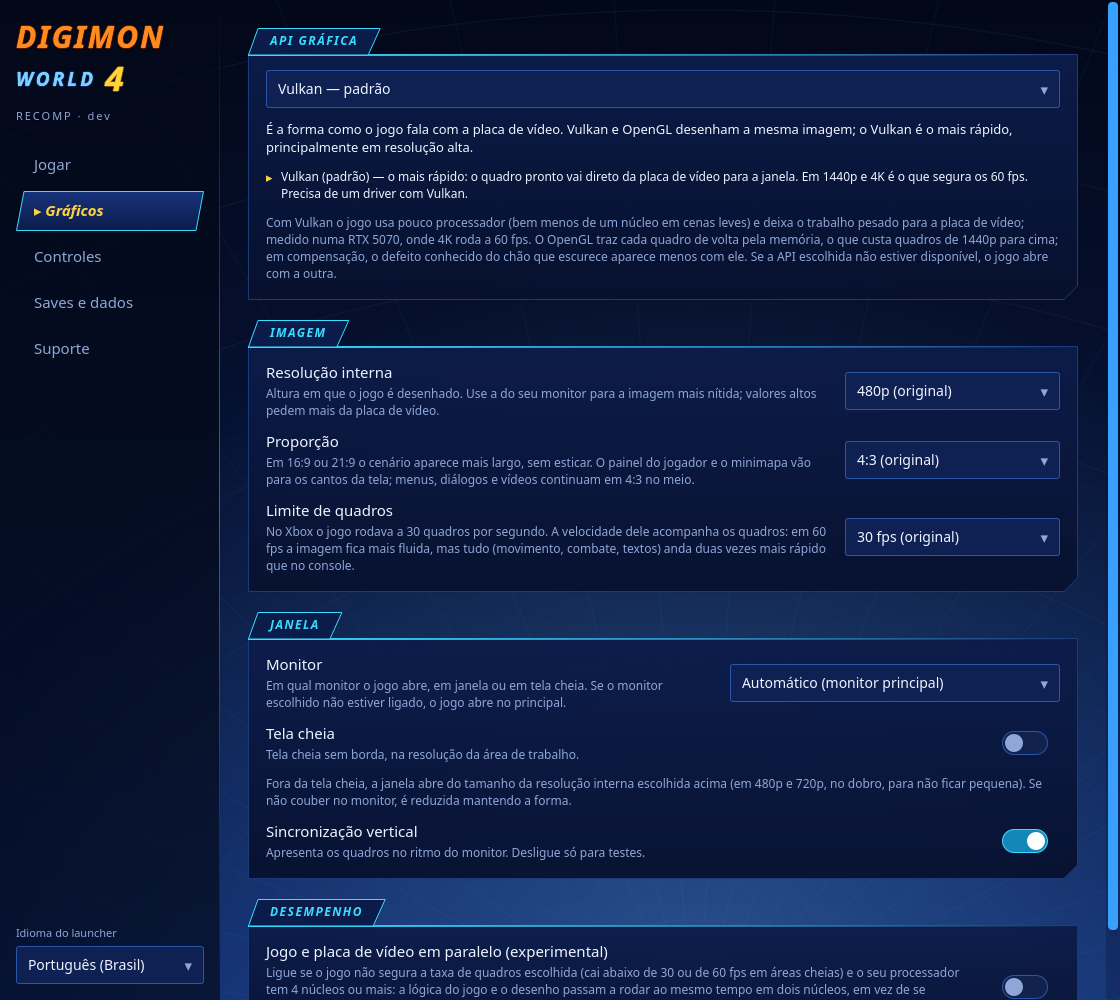
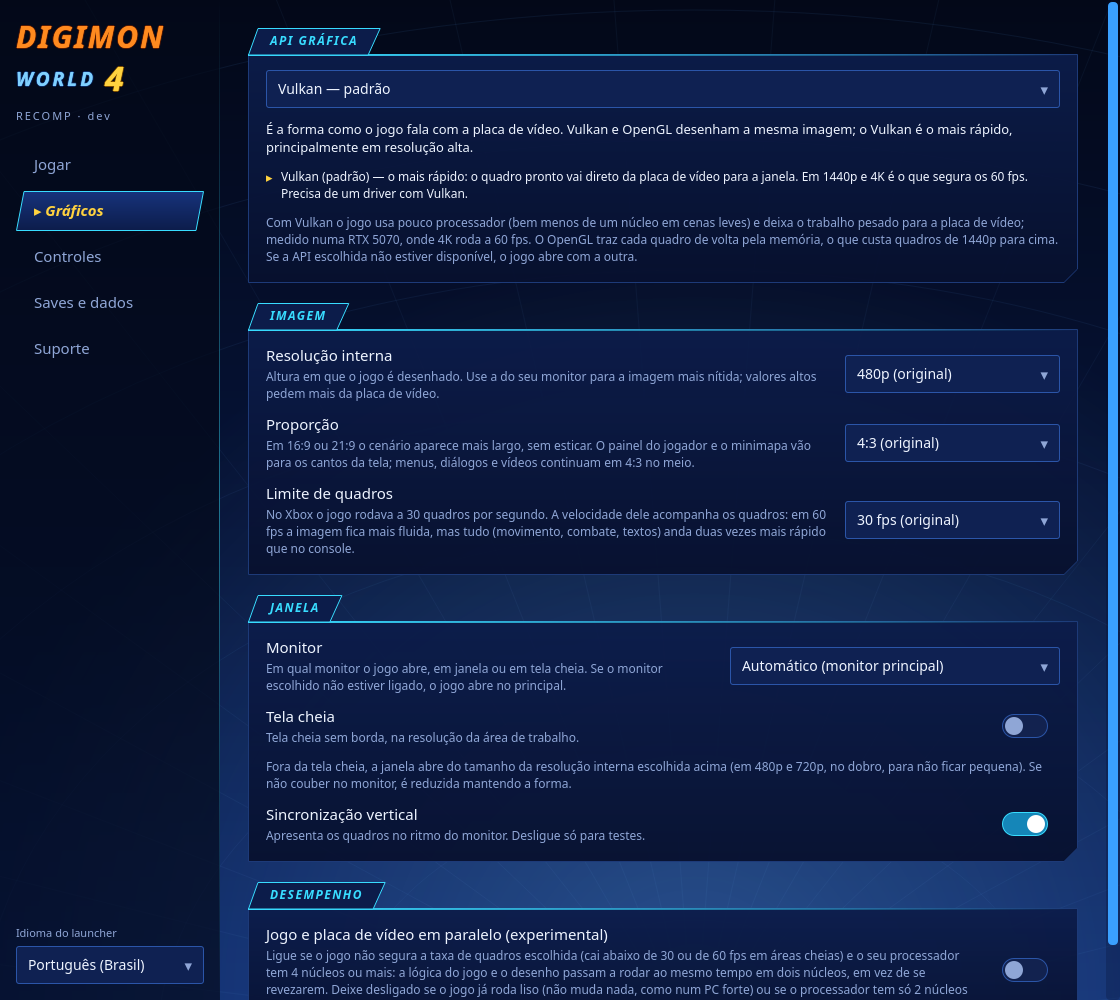
Sombras projetadas (texgen) e crash ao pular o video de abertura
- Chao que escurecia: o passe de sombra projetada usa texgen EYE_LINEAR, que o
  executor ignorava; o piso inteiro amostrava um ponto so do alvo de sombra.
  ffp_vertex() aplica texgen (olho e objeto) antes da matriz de textura; os
  Digimon voltam a ter sombra. RECOMP_NO_TEXGEN=1 desliga.
- Pular a abertura com START fechava o jogo em ~5% das execucoes sem janela:
  corrida entre a thread principal e a mwidle do CRI, que no console nao roda
  enquanto a principal trabalha. A passada da mwidle (sub_00257FB0) passa a
  respeitar a secao critica do CRI e cede a vez. DW4_CRI_IDLE_GATE=0 desliga.
- Diagnostico: tg= nos lotes da caixa-preta; cadeia de chamadas do guest na
  primeira chamada por ponteiro nulo.
- Launcher e READMEs: saem os tres defeitos conhecidos (chao, reflexos, crash
  da abertura); imagens da aba Graficos refeitas.

diff --git a/launcher/qml/Main.qml b/launcher/qml/Main.qml
@@ -689,7 +689,7 @@ ApplicationWindow {
                 Card {
                     heading: t.known
                     Repeater {
-                        model: [t.known_1, t.known_2, t.known_3, t.known_4]
+                        model: [t.known_1]
                         Label { required property string modelData
                                 text: "•  " + modelData; color: win.ink; font.pixelSize: 14; wrapMode: Text.WordWrap; Layout.fillWidth: true }
                     }

diff --git a/launcher/dw4_launcher.py b/launcher/dw4_launcher.py
@@ -201,12 +201,10 @@ STR = {
         "api_vk": "Vulkan (padrão) — o mais rápido: o quadro pronto vai direto da placa de vídeo para a janela. "
                   "Em 1440p e 4K é o que segura os 60 fps. Precisa de um driver com Vulkan.",
         "api_gl": "OpenGL 3.3 — a mais antiga e compatível; funciona em praticamente qualquer placa e driver. "
-                  "Mais lenta em resolução alta. Jogando, o defeito conhecido do chão que escurece apareceu menos com ela, "
-                  "e a imagem ficou mais estável: vale trocar se isso incomodar ou se o Vulkan der problema.",
+                  "Mais lenta em resolução alta. Vale trocar se o Vulkan der problema.",
         "api_note": "Com Vulkan o jogo usa pouco processador (bem menos de um núcleo em cenas leves) e deixa o "
                     "trabalho pesado para a placa de vídeo; medido numa RTX 5070, onde 4K roda a 60 fps. "
-                    "O OpenGL traz cada quadro de volta pela memória, o que custa quadros de 1440p para cima; "
-                    "em compensação, o defeito conhecido do chão que escurece aparece menos com ele. "
+                    "O OpenGL traz cada quadro de volta pela memória, o que custa quadros de 1440p para cima. "
                     "Se a API escolhida não estiver disponível, o jogo abre com a outra.",
         "vk_missing": "Vulkan não foi encontrado neste sistema: o jogo vai abrir com OpenGL.",
         "keyboard": "Teclado como controle 1", "keyboard_d": "Um controle conectado continua funcionando junto.",
@@ -262,11 +260,7 @@ STR = {
         "import_bad": "Este .zip não parece um backup de saves deste launcher.",
         "not_while_running": "Feche o jogo antes de mexer nos saves.",
         "known": "Problemas conhecidos",
-        "known_1": "Pular o vídeo de abertura com START pode, raramente, fechar o jogo. Se acontecer, abra de novo.",
-        "known_2": "Reflexos e brilhos gerados automaticamente não estão implementados; alguns objetos podem parecer chapados.",
-        "known_3": "Em algumas áreas o chão escurece por alguns quadros e volta. É só visual; a causa ainda não foi achada. "
-                   "Acontece menos com a API gráfica OpenGL (Gráficos).",
-        "known_4": "Testado em uma única máquina (CachyOS, NVIDIA RTX 5070), onde roda a 60 fps em 4K. Outras placas "
+        "known_1": "Testado em uma única máquina (CachyOS, NVIDIA RTX 5070), onde roda a 60 fps em 4K. Outras placas "
                    "(AMD, Intel), processadores mais fracos e outros sistemas ainda não foram testados.",
         "slow": "Se o jogo estiver lento",
         "slow_1": "Use a API gráfica Vulkan (Gráficos). Com OpenGL cada quadro passa pela memória, o que pesa de 1440p para cima.",
@@ -335,12 +329,10 @@ STR = {
         "api_vk": "Vulkan (default) — the faster one: the finished frame goes straight from the graphics card to "
                   "the window. At 1440p and 4K this is what holds 60 fps. Needs a driver with Vulkan.",
         "api_gl": "OpenGL 3.3 — the older, most compatible one; works on practically any card and driver. "
-                  "Slower at high resolutions. In play, the known floor-darkening glitch showed up less with it and the "
-                  "picture was steadier: worth switching if that bothers you or if Vulkan gives you trouble.",
+                  "Slower at high resolutions. Worth switching if Vulkan gives you trouble.",
         "api_note": "With Vulkan the game uses little processor (well under one core in light scenes) and leaves "
                     "the heavy work to the graphics card; measured on an RTX 5070, where 4K runs at 60 fps. "
-                    "OpenGL copies every frame back through memory, which costs frames at 1440p and above; "
-                    "on the other hand, the known floor-darkening glitch shows up less with it. "
+                    "OpenGL copies every frame back through memory, which costs frames at 1440p and above. "
                     "If the chosen API is unavailable, the game starts with the other.",
         "vk_missing": "Vulkan was not found on this system: the game will start with OpenGL.",
         "keyboard": "Keyboard as controller 1", "keyboard_d": "A connected controller keeps working alongside it.",
@@ -397,11 +389,7 @@ STR = {
         "import_bad": "This .zip does not look like a save backup from this launcher.",
         "not_while_running": "Close the game before touching the saves.",
         "known": "Known issues",
-        "known_1": "Skipping the intro movie with START can, rarely, make the game quit. If it happens, start it again.",
-        "known_2": "Automatically generated reflections and shine are not implemented; some objects may look flat.",
-        "known_3": "In some areas the floor darkens for a few frames and comes back. It is only visual; the cause has not been found yet. "
-                   "It happens less with the OpenGL graphics API (Graphics).",
-        "known_4": "Tested on one machine (CachyOS, NVIDIA RTX 5070), where it runs at 60 fps in 4K. Other cards "
+        "known_1": "Tested on one machine (CachyOS, NVIDIA RTX 5070), where it runs at 60 fps in 4K. Other cards "
                    "(AMD, Intel), slower processors and other systems are untested.",
         "slow": "If the game is slow",
         "slow_1": "Use the Vulkan graphics API (Graphics). With OpenGL every frame goes through memory, which is heavy from 1440p up.",

diff --git a/src/hooks/recomp_manual.c b/src/hooks/recomp_manual.c
@@ -183,6 +183,17 @@ void recomp_icall_not_code_log(uint32_t va)
                     "(ponteiro nulo/selvagem, chamada #%llu, ret guest 0x%08X)\n",
             va, (unsigned long long)hits[i],
             (unsigned long long)g_icall_count, MEM32(g_esp));
+    if (hits[i] == 1)
+        fprintf(stderr, "  [CRI] trava do CRI (0x3BDD34) = %u no momento\n", MEM32(0x3BDD34));
+    /* Na primeira vez de cada alvo, a cadeia de chamadas do guest desta
+     * thread: diz qual thread (principal, vsync do CRI, mwidle) tropeçou. */
+    if (hits[i] == 1) {
+        static int budget = 6;
+        if (budget > 0) {
+            budget--;
+            dw4_crash_report_guest_stack();
+        }
+    }
 }
 
 /* ── Instrucoes nao traduzidas ─────────────────────────────────────────────── */
@@ -277,4 +288,52 @@ void sub_002B1320(void)
     xbox_Nv2aKickGate();
     sub_002B1320_gen();
     xbox_Nv2aKickDone();
+}
+
+/* 0x00257FB0: a passada dos servidores "idle" do CRI (SVM tipo 6), chamada so
+ * pela thread mwidle (0x0024D590), que le os AFS e alimenta os fluxos de
+ * video e som.
+ *
+ * No console a mwidle tem a prioridade mais baixa do jogo e ha uma CPU so:
+ * ela so roda quando a thread principal esta bloqueada, entao tudo o que a
+ * principal faz na biblioteca (parar e destruir um filme, por exemplo) e
+ * atomico em relacao a ela. Aqui as duas rodam ao mesmo tempo. Ao pular o
+ * video de abertura com START, a principal destruia os objetos de fluxo (SJ)
+ * com a mwidle no meio de uma passada, ou o contrario: chamada virtual por
+ * uma vtable ja zerada (`[ICALL] alvo 0x00000000`, ret guest 0x0026A1BE /
+ * 0x0026A1E0 / 0x0026A8B0 / 0x00277028..0x002773A6) e o jogo desistia
+ * (HalReturnToFirmware). 11 em 231 execucoes sem janela antes; PORT_NOTES §3.
+ *
+ * A passada passa a rodar dentro da secao critica do proprio CRI
+ * (0x003FEA60, a de 0x0024D4C0/0x0024D4E0), que a principal segura nas
+ * chamadas da biblioteca. Se ela esta ocupada, a passada e pulada (eax = 0,
+ * "nada a fazer"): a mwidle se suspende e volta no vblank seguinte, que e o
+ * que a prioridade fazia. Nunca espera pela trava: a principal, de dentro
+ * dela, gira esperando a mwidle terminar (0x0024D520).
+ * DW4_CRI_IDLE_GATE=0 volta ao comportamento antigo. */
+#define CRI_LOCK_VA 0x003FEA60u
+extern void sub_00257FB0_gen(void);
+extern int  xbox_RtlTryEnterCriticalSectionHost(void *cs);
+extern void xbox_RtlLeaveCriticalSection(void *cs);
+
+void sub_00257FB0(void)
+{
+    static int on = -1;
+    void *cs = (void *)((uintptr_t)g_xbox_mem_offset + CRI_LOCK_VA);
+
+    if (on < 0) {
+        const char *e = getenv("DW4_CRI_IDLE_GATE");
+        on = !(e && e[0] == '0');
+    }
+    if (!on) {
+        sub_00257FB0_gen();
+        return;
+    }
+    if (!xbox_RtlTryEnterCriticalSectionHost(cs)) {
+        g_eax = 0;
+        g_esp += 4;                         /* o `ret` da funcao */
+        return;
+    }
+    sub_00257FB0_gen();
+    xbox_RtlLeaveCriticalSection(cs);
 }

diff --git a/src/hooks/nv2a_vk_backend.c b/src/hooks/nv2a_vk_backend.c
@@ -1337,6 +1337,10 @@ static uint32_t s_pcount, s_pcap;
 extern const uint32_t *nv2a_pb_exec_reg_mirror(void);
 static uint32_t s_tm_hash, s_tm_n;
 static float s_tm_min[2], s_tm_max[2];
+/* Texgen do estagio 0 (SET_TEXGEN_S/T/R/Q, 0x03C0..0x03CC): quantos draws do
+ * lote vieram com algum canal ligado e os modos do ultimo deles. O executor
+ * ainda nao aplica texgen (PORT_NOTES 7.8); isto so mostra se o jogo pede. */
+static uint32_t s_tg_n, s_tg_mode[4];
 
 static void tm_note(void)
 {
@@ -1344,6 +1348,11 @@ static void tm_note(void)
     float m[16];
     uint32_t h = 0;
 
+    if (reg[0x03C0 / 4] | reg[0x03C4 / 4] | reg[0x03C8 / 4] | reg[0x03CC / 4]) {
+        for (int i = 0; i < 4; i++)
+            s_tg_mode[i] = reg[0x03C0 / 4 + i];
+        s_tg_n++;
+    }
     if (!reg[0x0420 / 4])
         return;
     memcpy(m, &reg[0x06C0 / 4], sizeof m);
@@ -1632,7 +1641,7 @@ static void flush_pending(void)
     }
     if (dw4_frame_ring_on()) {
         /* Caixa-preta: o que este lote e, para comparar quadro a quadro. */
-        char line[480];
+        char line[560];
         uint32_t rch = 0;
 
         for (size_t i = 0; i < sizeof k->rc / 4; i++)
@@ -1668,7 +1677,8 @@ static void flush_pending(void)
         snprintf(line, sizeof line, "s%d v=%u ext=%d bl=%u(%X,%X) at=%u(%X,%u) z=%u/%u cm=%08X "
                  "t=%08X,%08X f%02X pal=%08X:%08X ts=%d rc=%05X f0=%08X fin=%X,%X fogc=%.2f,%.2f,%.2f "
                  "fog=%.3f[%.2f..%.2f] spec=%08X uv=%08X col=%08X bb=%.0f,%.0f-%.0f,%.0f "
-                 "rch=%08X f1=%08X fc=%08X,%08X bc=%08X tm=%u:%08X[%.3f..%.3f,%.3f..%.3f]",
+                 "rch=%08X f1=%08X fc=%08X,%08X bc=%08X tm=%u:%08X[%.3f..%.3f,%.3f..%.3f] "
+                 "tg=%u:%X,%X,%X,%X",
                  (int)(k->surf - s_surf), s_pcount, k->has_ext, rs->blend_enable, rs->blend_src,
                  rs->blend_dst, rs->alpha_test_enable, rs->alpha_func, rs->alpha_ref,
                  rs->depth_test_enable, rs->depth_write, rs->color_mask, k->tva[0], k->tva[1],
@@ -1680,8 +1690,10 @@ static void flush_pending(void)
                  (double)x0, (double)y0, (double)x1, (double)y1,
                  rch, k->rc.factor1[0], k->rc.final_c0, k->rc.final_c1, rs->blend_color,
                  s_tm_n, s_tm_hash, (double)s_tm_min[0], (double)s_tm_max[0],
-                 (double)s_tm_min[1], (double)s_tm_max[1]);
+                 (double)s_tm_min[1], (double)s_tm_max[1],
+                 s_tg_n, s_tg_mode[0], s_tg_mode[1], s_tg_mode[2], s_tg_mode[3]);
         s_tm_hash = 0; s_tm_n = 0;
+        s_tg_n = 0; memset(s_tg_mode, 0, sizeof s_tg_mode);
         dw4_frame_detail(line);
     }
     vkCmdDraw(s_cmd, s_pcount, 1, s_vtx_used, 0);

diff --git a/PORT_NOTES.md b/PORT_NOTES.md
@@ -117,7 +117,14 @@ EFLAGS** no `ucontext` (a instrução seguinte é o `jcc`).
 `ffp_vertex()` aplica `SET_TEXTURE_MATRIX` (`0x06C0 + 0x40·estágio`) quando
 `SET_TEXTURE_MATRIX_ENABLE` (`0x0420 + 4·estágio`) está ligado, na convenção da matriz composta
 (`out[i] = Σ M[4i+j]·in[j]`, q = 1 por omissão). `RECOMP_NO_TEXMATRIX=1` desliga para comparar.
-Texgen (`0x03C0…`) continua não implementado.
+**Texgen (2026-11-26):** `ffp_vertex()` aplica `SET_TEXGEN_S/T/R/Q` (`0x03C0 + 0x10·estágio +
+4·canal`) antes da matriz de textura: EYE_LINEAR (`0x2400`) = plano · posição no espaço do olho
+(modelview em `0x0480`), OBJECT_LINEAR (`0x2401`) = plano · posição do objeto; planos em
+`0x0840 + 0x40·estágio + 0x10·canal` (se nunca foram programados, os de identidade). Sphere,
+reflection e normal map continuam sem implementação. `RECOMP_NO_TEXGEN=1` desliga para comparar.
+Motivo e evidência em §7.8. Confirmado pelo usuário jogando (2026-11-26, Linux, Vulkan, Central
+Area): sombras dos Digimon no chão e o piso não escurece mais. Sem janela: `soak.py --golden`, `--opengl --golden`
+e `--wine --golden` passam, sombra visível no lobby nos dois renderizadores; referências atualizadas.
 
 ### 4.7 `nv2a_backend.h` / `nv2a_pb_exec.c` — z-bias (polygon offset)
 `Nv2aRenderState` ganhou `poly_offset_enable/factor/bias`, lidos do espelho de registradores
@@ -412,6 +419,46 @@ controle de verdade fica "conectada, nada apertado". Com 4, o boot até o lobby 
 frames de referência. **Não testado com mais de um controle nem visto o que o jogo faz com as
 portas vazias.**
 
+### 4.21 `src/kernel/kernel_rtl.c` + `recomp_manual.c` — pular o vídeo de abertura fechava o jogo (2026-11-26, `DW4R-12`)
+
+**Sintoma:** em ~5% das execuções sem janela (11 de 231 no histórico; 3 de 64 no dia da
+correção), apertar START durante o vídeo de abertura dava `[ICALL] alvo 0x00000000` com
+`ret guest 0x0026A1BE` / `0x0026A1E0` / `0x0026A8B0` / `0x00277028`…`0x002773A6`, e em seguida o
+jogo saía sozinho (`HalReturnToFirmware routine=2`, com um laço de ponteiros-lixo em
+`ret guest 0x00257F47` e SIGSEGV na saída) ou ficava vivo com o laço girando. O usuário nunca viu
+jogando com janela.
+
+**Como foi achado:** `recomp_icall_not_code_log` passou a despejar a cadeia de chamadas do guest
+na primeira chamada nula. Em 2 de 3 falhas a thread era a **mwidle** do CRI (`0x0024D590` →
+`0x00257FB0` → `0x00257F10`, o laço de servidores do SVM: 6 pares {função, objeto} por tipo em
+`0x003BE930 + 48·tipo`, tipo 6 = "idle") dentro de um servidor do Sofdec (`0x002708xx` →
+`0x0026A8xx`) chamando um método de um objeto de fluxo (SJ) por uma vtable zerada; na outra era a
+thread principal, no caminho de parar/destruir o filme (`0x00096FE7` → `0x0026FC82` → …).
+
+**Causa:** os servidores do CRI não se excluem por trava e sim por **prioridade**. No console a
+mwidle é a thread de menor prioridade numa CPU só: só roda com a principal bloqueada, então tudo
+o que a principal faz na biblioteca é atômico em relação a ela (e `0x0024D520` sobe a prioridade
+da mwidle e gira até ela terminar a passada, quando quer esperá-la). Aqui as duas rodam ao mesmo
+tempo e a principal destruía os SJ com a mwidle no meio de uma passada. Descartado antes, medindo:
+a correção do vblank da §4.20 (1 falha em 32 com ela desligada, 2 em 32 com ela ligada).
+
+**Correção:** `sub_00257FB0` (a passada "idle", só a mwidle chama) virou função embrulhada em
+`recomp_manual.c`: roda dentro da seção crítica do próprio CRI (`0x003FEA60`, a de
+`0x0024D4C0`/`0x0024D4E0`, que a principal segura nas chamadas da biblioteca) e, se ela está
+ocupada, a passada é pulada (`eax = 0`: a mwidle se suspende até o vblank seguinte). Nunca espera
+pela trava, porque a principal gira esperando a mwidle de dentro dela. No toolkit entrou
+`xbox_RtlTryEnterCriticalSectionHost()` (os dois modos de seção crítica). `DW4_CRI_IDLE_GATE=0`
+desliga. Não é `RECOMP_GUEST_LOCK=1` (uma thread do guest por vez): ele não dá prioridade, e
+16 execuções com ele não mostraram nada (0 falhas, como as 16 sem ele naquela hora).
+
+**Medido (sem janela, roteiro `f1000:enter` + `wait_flips:500`):** 128 de 128 execuções sem
+nenhuma chamada nula e sem `[STALL]` (duas séries de 64; antes, 3 em 64 no mesmo dia); no Wine,
+16 de 16. Goldens conferem (Vulkan, OpenGL, Wine). O xemu não serviu de base aqui: ele emula a
+CPU única, a corrida é própria de rodar o guest em threads reais; a ideia de exclusão vem das
+lições dos outros ports (`docs/REFERENCIAS.md` §5). **Limite do que foi provado:** estatística
+forte, não prova formal; outros pontos em que a principal mexe no CRI fora da trava continuariam
+expostos (nenhum visto).
+
 ## 5. Hooks (`src/hooks/`)
 
 | Arquivo | Função |
@@ -424,6 +471,7 @@ portas vazias.**
 | `nv2a_vk_backend.c`, `shaders/` | renderizador Vulkan, compilado como `libdw4_vk.so` (§7.5) |
 | `gl_host.c`, `gl_module.h` | escolha da API (`DW4_RENDERER=opengl\|vulkan\|cpu`), contexto EGL, carga/recarga do renderizador, `DW4_SW_RENDER=1` |
 | `stall_watch.c` | amostrador de travamento (`DW4_STALL_MS`) |
+| `recomp_manual.c`: `sub_00257FB0` (embrulhada) | a passada "idle" do CRI roda dentro da seção crítica do CRI e cede a vez se ela está ocupada: corrige o crash de pular o vídeo de abertura (§4.21); `DW4_CRI_IDLE_GATE=0` desliga |
 | `recomp_manual.c`: `sub_0024D660_enter` | `DW4_CRI_TRACE=1`: registra quando uma thread de som do CRI fica mais de 60 ms sem voltar à espera de vblank (diagnóstico do áudio em fluxo, §4.20) |
 | `quit_hotkey.c` | atalho que fecha o jogo: `DW4_QUIT_KEYS` (padrão `ctrl+q`, na hora) e `DW4_QUIT_PAD` (padrão `back+start`, segurados `DW4_QUIT_HOLD_MS`=1000); `off` desliga. Thread própria a cada 20 ms, então vale com o jogo travado. Sai por `fflush` + `_exit(0)`, como o `quit` dos roteiros: pedir o fechamento pela janela (`SDL_QUIT` → `exit()`) derrubou o processo dentro da camada de swapchain do gamescope, com o renderizador Vulkan ainda apresentando (§8) |
 | `osd.c` | mostrador de FPS / CPU / GPU: `DW4_OSD=1` (já visível), `DW4_OSD_KEYS` (padrão `f2`), `DW4_OSD_PAD` (padrão `l3+r3`), lidos pela thread de `quit_hotkey.c`. Não tem renderizador de texto: monta um lote 2D sem textura (fonte 5x7, um retângulo por trecho aceso) que `gl_host.c` entrega ao renderizador em uso antes do `present_sync`/`flip`, na última superfície de tela em que o jogo desenhou, com o estado do último lote dela (blend ligado, sem teste de profundidade). Em tela larga o x sai deslocado de `-320·(wide−1)` para o aperto de `ro_squeeze` devolvê-lo ao canto da tela. CPU e GPU vêm de `host_os.h` (`dw4_os_cpu_times` — a CPU é a média de todos os núcleos do sistema, de `/proc/stat` ou `GetSystemTimes` —, `dw4_os_gpu_percent`: NVML, sysfs da AMD, contadores "GPU Engine" no Windows por `pdh.dll` carregada em tempo de execução) |
@@ -859,7 +907,7 @@ superfície, não pelo recorte do último draw (um alvo 512×512 podia "ganhar" 
 **Primeiro uso (2026-11-24):** 6 capturas automáticas numa sessão do usuário; levaram à causa da
 piscada (patch 4.11: a volta do anel do pushbuffer perdia comandos).
 
-### 7.8 ABERTO: o chão escurece por alguns quadros (2026-11-24)
+### 7.8 O chão escurece por alguns quadros (2026-11-24; causa achada e corrigida em 2026-11-26: texgen)
 
 Sintoma: na Central Area (e na caverna), o piso de ladrilhos escurece em padrão listrado por 1–7
 quadros e volta; Vulkan e OpenGL; às vezes com o personagem andando. Capturas com detalhe por
@@ -892,6 +940,30 @@ quadros escuros, sem valor fora da sequência.
 entre passes coplanares com `LEQUAL`) e o conteúdo real das texturas/alvos (só endereços e
 hashes). **Padrão que se repete em todas as capturas:** o escurecimento vem 1–4 quadros antes
 de um grupo novo de objetos entrar (+300 draws) — troca de setor do mapa.
+
+**Hipótese nova (2026-11-26, só releitura das capturas, nenhum teste rodado): texgen.** O passe
+que multiplica o chão pela sombra (`bl=1(0,300)`, amostra o alvo 512×512) usa a **mesma**
+coordenada de textura em todos os ladrilhos: nos traces F9, `uv0` dos ~285 draws do passe fica em
+(0,681; 0,496) ± 0,002 (`f9-014.txt`; idem `f9-016.txt`), que é a coluna de translação da matriz
+de textura (`tm=…[0.752..,0.465..]` nos `lotes.txt`). Ou seja, o vértice não traz coordenada
+(`fetch_attr` devolve 0,0,0,1) e a real deveria vir do texgen, que `ffp_vertex()` ignora (§4.8).
+O piso inteiro amostra um ponto só do alvo de sombra; quando a silhueta de um objeto cai nesse
+ponto, tudo o que recebe o passe é multiplicado por 0x66. Medido em `flash-022`: nos quadros
+019–027 o painel passa de (65,24,230) para (26,10,92), exatamente ×0,40; nos quadros de
+transição cada ladrilho escurece por inteiro num valor próprio (um ponto de amostra por draw); e
+o número de draws no alvo de sombra sobe de 328 para 371 três quadros antes. Explica por que
+lotes, estado e matrizes são idênticos nos quadros escuros. Consequência esperada: hoje nenhuma
+sombra projetada de personagem aparece no chão. **Confirmado em 2026-11-26** (capturas F12 do
+usuário na Central Area, `flash-024` e `flash-025`, campo novo `tg=` do `lotes.txt`): o passe de
+sombra, e só ele, vem com `tg=2400,2400,2400,0` (EYE_LINEAR em s, t, r) em todos os draws.
+Correção: texgen em `ffp_vertex()` (§4.8); o usuário jogou e confirmou sombras e piso estável;
+goldens passam nos dois renderizadores e no Wine (referências atualizadas, agora com sombra);
+faltam OpenGL com janela e Windows real. Referência de
+semântica: o gerador de função fixa do xemu (`hw/xbox/nv2a/pgraph/glsl/vsh-ff.c`, LGPL: só a
+ideia): por canal, EYE_LINEAR = plano · posição no espaço do olho, OBJECT_LINEAR = plano ·
+posição do objeto, e só depois a matriz de textura. No xemu o jogo ("Digimon World X",
+`xemu.app/titles/42410002`) está como Playable sem defeito gráfico relatado; no Cxbx-Reloaded
+(`game-compatibility` #413) idem, sem detalhes.
 
 **Decisão do usuário (2026-11-24): fica como defeito conhecido não resolvido.** Para retomar:
 registrar z mínimo/máximo por lote e o valor do clear de depth na caixa-preta; comparar com o

diff --git a/STATUS.md b/STATUS.md
@@ -245,7 +245,17 @@ ficam em 4:3 no meio. Detalhes e limites em `PORT_NOTES.md` §7.6.
   pista nova para o defeito abaixo (os dois renderizadores diferem na apresentação — o Vulkan não
   espera a GPU e não traz o quadro de volta — e não no desenho). O launcher passou a dizer isso
   na descrição do OpenGL e em Suporte.
-- **Aberto: o chão escurece por alguns quadros** (Central Area, caverna; Vulkan e OpenGL).
+- **Corrigido em 2026-11-26 (falta rodar os testes sem janela): o chão que escurecia.** Causa: o
+  passe de sombra projetada usa texgen (EYE_LINEAR), que o executor ignorava; o piso inteiro
+  amostrava um ponto só do alvo de sombra e, de quebra, nenhum personagem tinha sombra.
+  Implementado em `ffp_vertex()` no toolkit (`PORT_NOTES.md` §4.8, §7.8). **Confirmado pelo
+  usuário jogando** (Linux, Vulkan, 1440p 16:9; Central Area e cavernas, onde acontecia com
+  muita frequência): o chão não escurece mais, os Digimon têm sombra e ela está correta.
+  **Sem janela (2026-11-26):** `soak.py --golden`, `--opengl --golden` e `--wine --golden`
+  passam; as capturas do lobby mostram a sombra sob os personagens no Vulkan e no OpenGL
+  (ausente nas referências antigas, que foram atualizadas). Depois o usuário repetiu os mesmos cenários com **OpenGL** e também
+  funcionou ("tá 100%"). **Não verificado:** Windows real. O texto abaixo é o histórico do defeito.
+- **(histórico) o chão escurece por alguns quadros** (Central Area, caverna; Vulkan e OpenGL).
   Acontece também em 480p 4:3 (não é do widescreen). Causa não determinada; tudo o que foi medido
   e descartado está em `PORT_NOTES.md` §7.8. **Defeito conhecido, não resolvido** (decisão do
   usuário); cosmético.
@@ -403,7 +413,19 @@ verdade.** Não tem relação com o Vulkan (aconteceu numa sessão em Vulkan, ma
 camada de entrada). É candidato a ser também a "corrida que corrompe o heap" nunca localizada
 (mesma mensagem) — **não confirmado**.
 
-## Crash intermitente conhecido (aberto)
+## Crash ao pular o vídeo de abertura — CORRIGIDO (2026-11-26, `DW4R-12`; falta release)
+
+Causa: corrida entre a thread principal (destrói o filme) e a thread mwidle do CRI, que no
+console não roda enquanto a principal trabalha (prioridade, uma CPU). Correção: a passada da
+mwidle respeita a seção crítica do CRI e cede a vez (`recomp_manual.c`, `sub_00257FB0`;
+`PORT_NOTES.md` §4.21; `DW4_CRI_IDLE_GATE=0` desliga). **Medido sem janela:** 128 de 128
+execuções limpas no Linux (antes 3 em 64 no mesmo dia; histórico 11 em 231) e 16 de 16 no Wine;
+goldens conferem nos dois renderizadores e no Wine. **Não verificado:** jogando com janela (o
+usuário nunca viu o crash, então não há antes/depois para ele) e Windows real. O travamento único
+de 2026-11-24 no mesmo ponto (abaixo) não reapareceu, mas era 1 em ~14 e pode ter outra causa.
+O histórico da investigação segue abaixo.
+
+## Crash intermitente conhecido (histórico)
 
 - **Pular a abertura com START durante o vídeo às vezes encerra o jogo** (2 de 8 execuções sem
   janela em 2026-11-24, tanto no build de desenvolvimento quanto no de release). Assinatura no log:

diff --git a/CLAUDE.md b/CLAUDE.md
@@ -67,9 +67,19 @@ caminho para as três plataformas (macOS via MoltenVK).
   caminhos `\\?\` no `updater.py`) junto com o ícone da janela no Windows, na **v0.5.2**. O ícone
   foi visto pelo usuário no Windows 11; **a atualização v0.5.1 → v0.5.2 foi feita por ele em Windows 11 real e funcionou**
   (a do AppImage no Linux só rodou contra o servidor de teste). `package_win.sh` recusa caminho acima de 125 caracteres.
-- **Aberto:** fechar pela janela caiu na saída dentro do gamescope (`PORT_NOTES.md` §8); crash intermitente ao pular o vídeo de abertura com START (2 em 16 sem janela;
-  assinatura no `STATUS.md`); texgen não implementado; o chão que escurece por alguns quadros;
+- **Aberto:** fechar pela janela caiu na saída dentro do gamescope (`PORT_NOTES.md` §8); texgen só nos modos lineares (sphere/reflection/normal map faltam);
   HUD em widescreen só conferido com 1 jogador.
+- **Chão que escurecia / sombras (2026-11-26, `DW4R-12`, sem release ainda):** a causa era o texgen
+  ignorado no passe de sombra projetada; corrigido em `ffp_vertex()` no toolkit (`PORT_NOTES.md`
+  §4.8 e §7.8). O usuário jogou no Linux com Vulkan e com OpenGL (1440p 16:9; Central Area e
+  cavernas): o chão não escurece mais e os Digimon têm sombra correta ("tá 100%"). Sem janela:
+  goldens passam nos dois renderizadores e no Wine (referências atualizadas, com sombra).
+  Não visto em Windows real.
+- **Crash ao pular a abertura (2026-11-26, `DW4R-12`, sem release ainda):** corrida entre a thread
+  principal e a mwidle do CRI (no console a prioridade impede); a passada da mwidle agora respeita
+  a seção crítica do CRI (`sub_00257FB0` embrulhada em `recomp_manual.c`, `PORT_NOTES.md` §4.21;
+  `DW4_CRI_IDLE_GATE=0` desliga). Sem janela: 128 de 128 limpas (antes ~5%), Wine 16 de 16. Não
+  visto com janela nem em Windows real.
 - **Memória do guest:** `RECOMP_HEAP_RECLAIM=1` é default desde a v0.3.1 (sem ela a memória
   contígua enche e a tela fica branca após alguns minutos); `DW4_NO_HEAP_RECLAIM=1` desliga.
 - **Licença: MIT** (`LICENSE`, escolhida em 2026-11-24). Testado só no começo do jogo: Terminal

diff --git a/README.pt-BR.md b/README.pt-BR.md
@@ -133,12 +133,6 @@ mesmos renderizadores, mesmos shaders, mesmas regras de widescreen.
 
 ### Problemas conhecidos
 
-- Pular o vídeo de abertura com START pode fechar o jogo. Nos testes automáticos sem janela
-  aconteceu em 2 de 16 execuções; jogando com janela não foi visto. Abra o jogo de novo.
-- A geração automática de coordenadas de textura (reflexos, brilhos) não está implementada; alguns
-  objetos podem aparecer chapados.
-- O chão às vezes escurece por uma fração de segundo em algumas áreas (Central Area, cavernas),
-  nos dois renderizadores, menos com OpenGL. É cosmético; a causa ainda não foi encontrada.
 - A 60 fps o jogo roda duas vezes mais rápido que no console, porque a lógica dele avança por
   quadro. O padrão é 30.
 - Em widescreen a tela de loading fica esticada na largura toda, e o painel do jogador só foi

diff --git a/README.md b/README.md
@@ -132,12 +132,6 @@ same shaders, same widescreen rules.
 
 ### Known issues
 
-- Skipping the intro movie with START can make the game quit. In automated runs without a window
-  it happened in 2 of 16; it has not been seen when playing in a window. Start the game again.
-- Automatic texture-coordinate generation (reflections, shine effects) is not implemented; some
-  objects may look flat.
-- The floor sometimes darkens for a fraction of a second in some areas (Central Area, caves), on
-  both renderers, less often with OpenGL. Cosmetic; the cause has not been found yet.
 - At 60 fps the game runs twice as fast as on the console, because its logic advances per frame.
   The default is 30.
 - In widescreen the loading screen is stretched to the full width, and the player panel has only

diff --git a/.claude/skills/bug-de-imagem/SKILL.md b/.claude/skills/bug-de-imagem/SKILL.md
@@ -47,7 +47,7 @@ Compare com o rasterizador em CPU do toolkit: `scripts/soak.py --sw --scenario <
   textura (ponte invisível, transição cinza) e do giro das tiras de triângulos.
 
 Antes de inventar, veja `PORT_NOTES.md` §7 (casos resolvidos e o método) e a tabela de correções
-dos outros ports em `docs/REFERENCIAS.md` §3. Ainda não implementado: texgen.
+dos outros ports em `docs/REFERENCIAS.md` §3. Texgen: só EYE_LINEAR e OBJECT_LINEAR (`PORT_NOTES.md` §4.8); sphere, reflection e normal map não.
 
 ## 4. Corrigir e entregar
 
